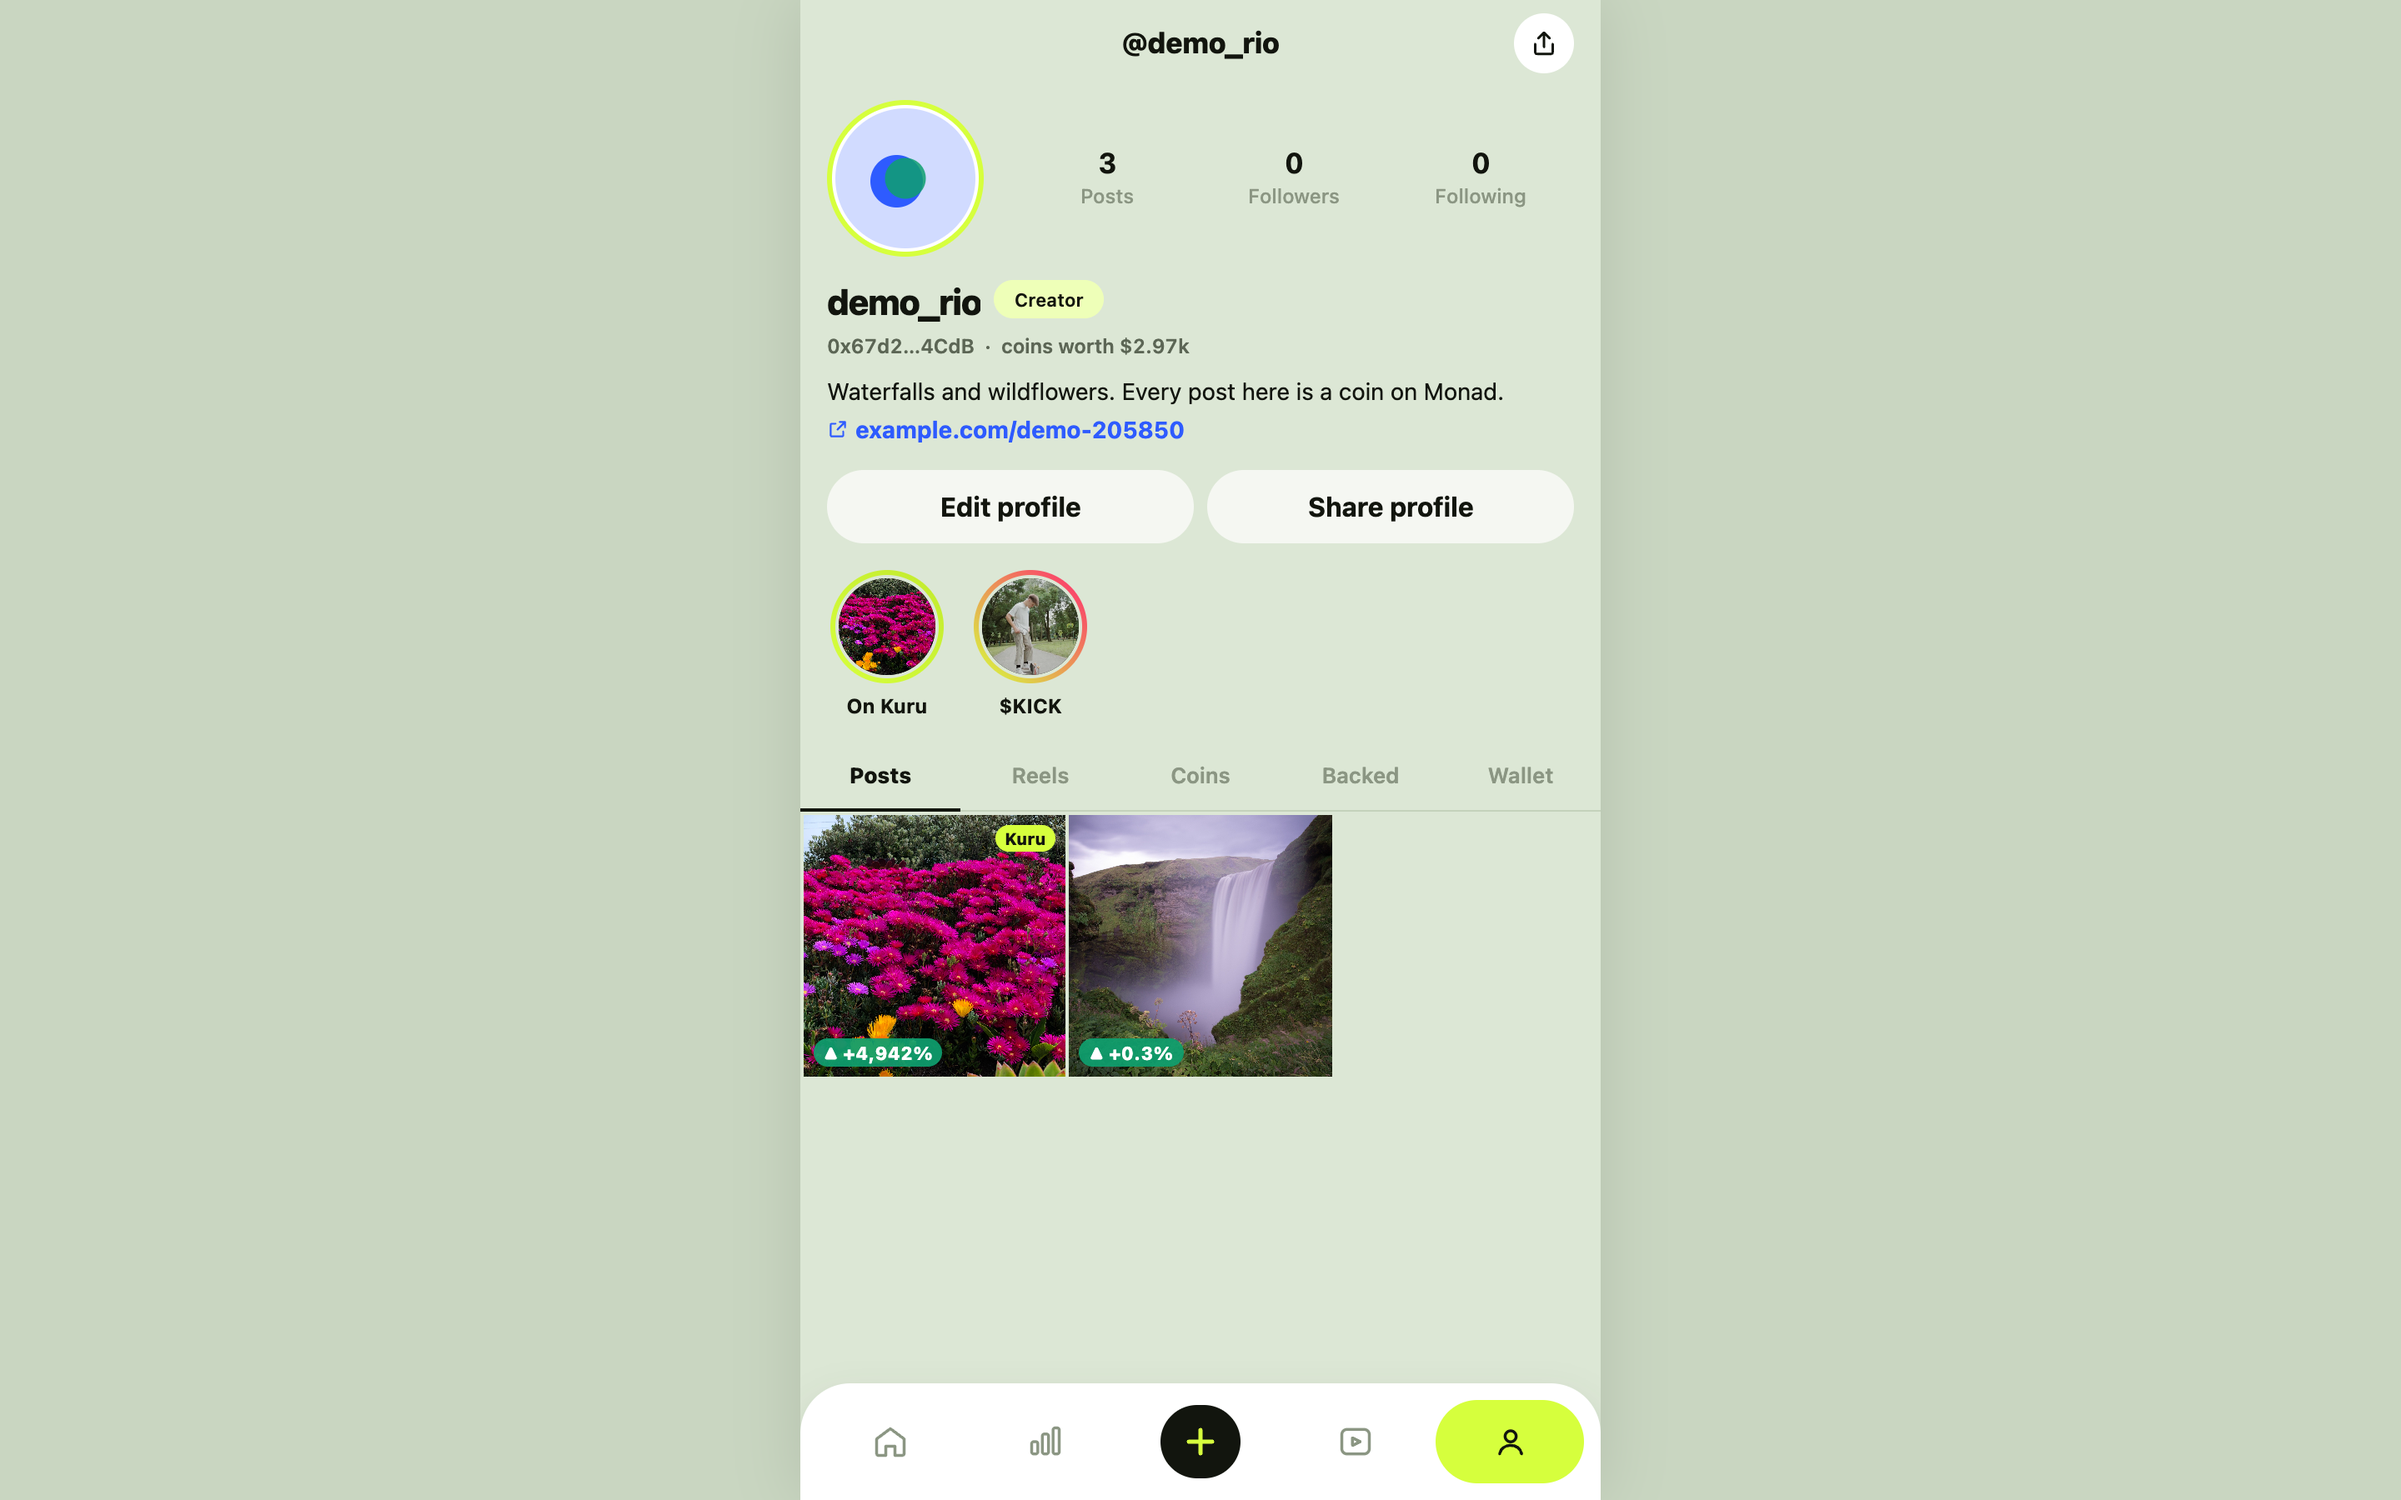
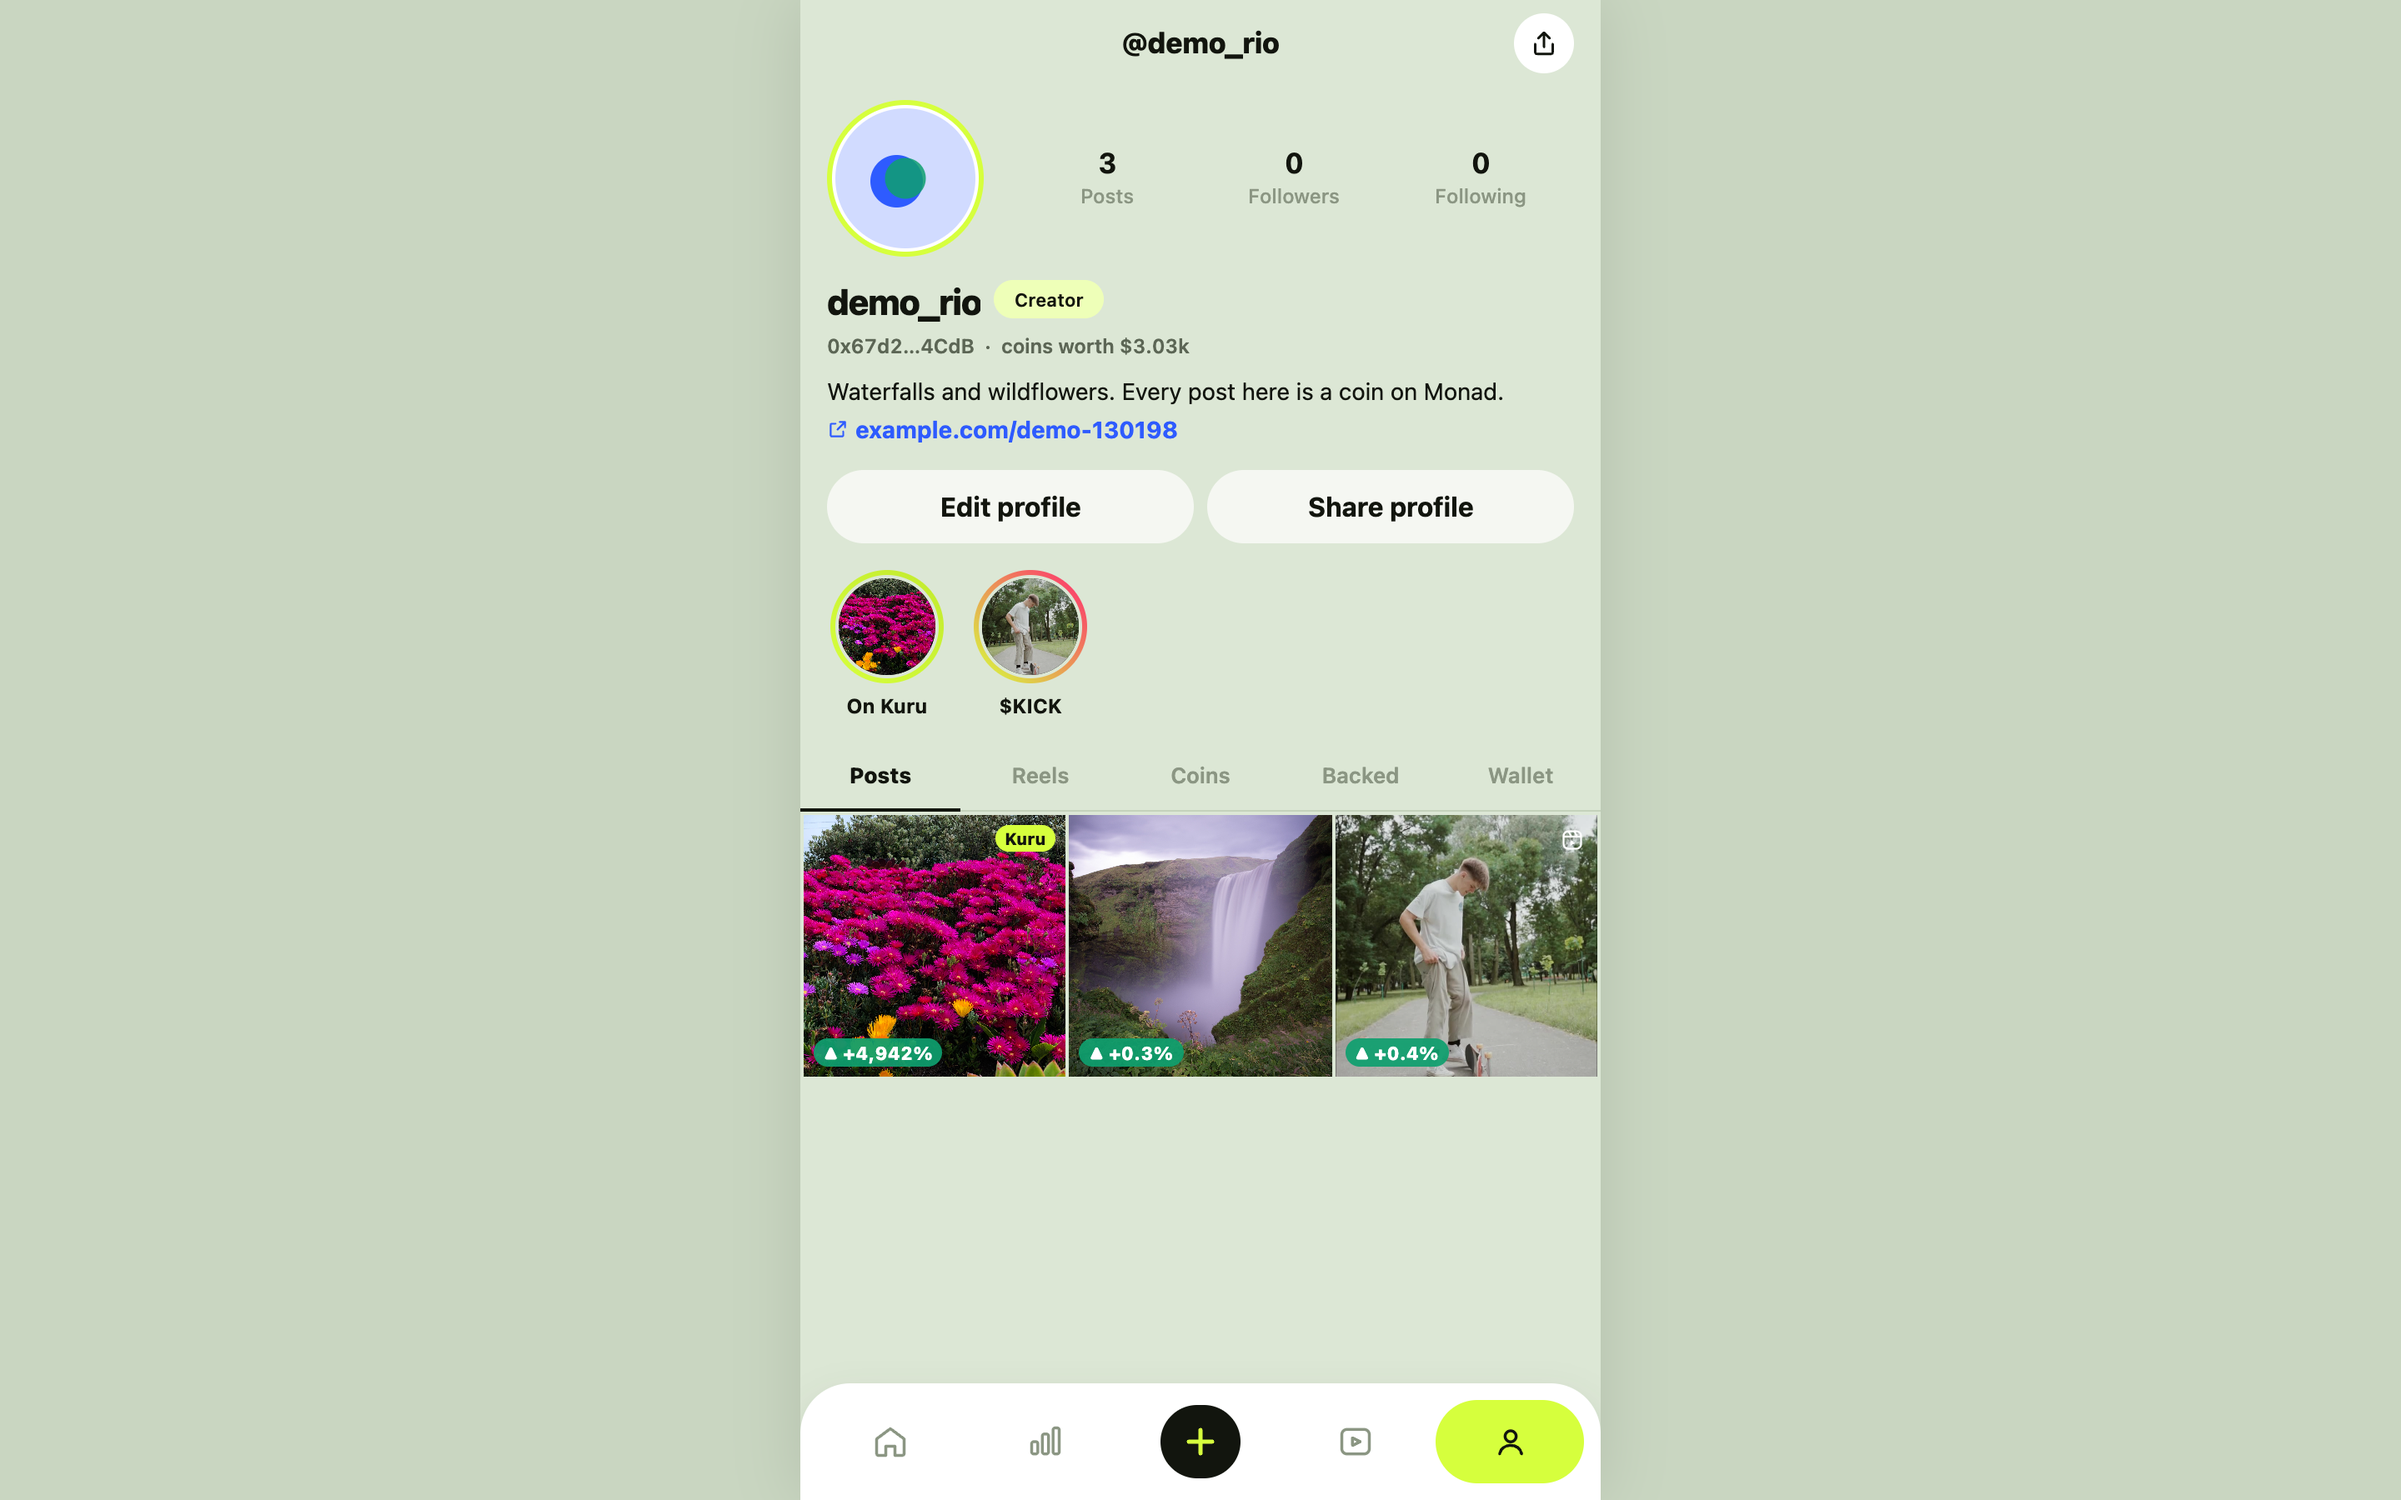
Profile: reels in the Posts grid, so the header count is the grid
The header counted photos and reels while the grid showed photos only
(3 Posts over 2 tiles). The grid is now every post, newest first, a reel
marked with its badge, as Instagram does; trackers stay under Coins.
profile.mjs asserts the header's Posts count equals the tiles, and that
exactly the reels carry the badge. After screenshots re-shot: profile
e2e 12/12, walk 50/50, on a fresh `npm run demo:local`.

Changed region(s): [[0.5312, 0.5289, 0.6875, 0.7156], [0.4375, 0.28, 0.5, 0.3111]]

diff --git a/juno-expo/components/CreatorProfile.tsx b/juno-expo/components/CreatorProfile.tsx
@@ -89,7 +89,13 @@ export function CreatorProfile({
   useRefreshOnFocus(() => profile.refresh());
 
   const created = data?.coins ?? [];
-  const posts = useMemo(() => created.filter((coin) => coin.format === "post" && !coin.reference), [created]);
+  // The main grid is every post, photos and reels together, newest first, as
+  // Instagram's is; a reel carries its badge. Trackers are coins, not posts,
+  // and are listed under Coins. The header's count is this grid's length.
+  const posts = useMemo(
+    () => created.filter((coin) => !coin.reference && (coin.format === "post" || coin.format === "reel")),
+    [created],
+  );
   const reels = useMemo(() => created.filter((coin) => coin.format === "reel"), [created]);
   const createdSet = useMemo(() => new Set(created.map((coin) => coin.address.toLowerCase())), [created]);
 
@@ -217,7 +223,7 @@ export function CreatorProfile({
                 <Identicon seed={wallet} size={84} />
               </AvatarRing>
               <Row style={{ flex: 1 }}>
-                <Stat value={String(posts.length + reels.length)} label="Posts" />
+                <Stat value={String(posts.length)} label="Posts" />
                 <Stat value={followers === null ? "—" : count(followers)} label={followers === 1 ? "Follower" : "Followers"} />
                 <Stat value={count(data.following)} label="Following" />
               </Row>
@@ -319,7 +325,7 @@ export function CreatorProfile({
           posts.length === 0 ? (
             <Empty
               title="No posts yet"
-              detail={own ? "A photo you post launches its own coin. People buy into it as they scroll." : "Nothing posted yet."}
+              detail={own ? "A photo or reel you post launches its own coin. People buy into it as they scroll." : "Nothing posted yet."}
               action={own ? <Button label="Post your first" onPress={() => router.push("/(tabs)/post" as never)} /> : undefined}
             />
           ) : (
@@ -428,7 +434,7 @@ function CoinTile({ coin, shape, onPress }: { coin: Coin; shape: "square" | "tal
         </View>
         {still ? <Image source={{ uri: still }} style={StyleSheet.absoluteFill} resizeMode="cover" /> : null}
         {coin.format === "reel" ? (
-          <View style={styles.tileBadge}>
+          <View style={styles.tileBadge} testID="reel-badge" accessibilityLabel="Reel">
             <ReelBadgeGlyph size={14} />
           </View>
         ) : coin.curve.graduated ? (

diff --git a/PLAN.md b/PLAN.md
@@ -68,7 +68,7 @@ innovation. Bounties are judged 40% on meeting the stated requirement. So:
 | 6.3 | `docs/DEPLOY-LATER.md` | Ordered runbook: addresses and MON, keys and where set, deploy and verify, hosting, smoke test, shot list | Read; under 1 hour | DONE (about 50 minutes) |
 | 7.1 | Fund deployers; deploy `JunoNavOracle`; redeploy API, indexer and web | Hosted app on HEAD | Post-deploy smoke test | **BLOCKED**: testnet go and MON |
 | 7.2 | Video, 3 minutes or less | Recorded from the shot list | — | **BLOCKED**: testnet go (hosted app on HEAD) |
-| 8.1 | Creator profile, Instagram style (user, 7 Oct) | Header with avatar, name, @handle, signed bio and link; posts, followers, following; Follow / Buy / Share; highlights; Posts, Reels, Coins, Backed tabs; 3-column square grid with price change; own (Edit profile, Wallet tab) and visitor views; loading, empty and error states; 390 px first | `tests/e2e/profile.mjs` (12 checks), `walk.mjs` 50/50, the app regression 59/60 (B7 as before), API 88/88, passkeys and drafts clean; before and after screenshots in `docs/screens/profile/` | DONE |
+| 8.1 | Creator profile, Instagram style (user, 7 Oct) | Header with avatar, name, @handle, signed bio and link; posts, followers, following; Follow / Buy / Share; highlights; Posts (photos and reels, a reel badged, the header count equal to the grid), Reels, Coins, Backed tabs; 3-column square grid with price change; own (Edit profile, Wallet tab) and visitor views; loading, empty and error states; 390 px first | `tests/e2e/profile.mjs` (12 checks), `walk.mjs` 50/50, the app regression 59/60 (B7 as before), API 88/88, passkeys and drafts clean; before and after screenshots in `docs/screens/profile/` | DONE |
 
 ## Gap audit (from the code, 6 Oct)
 

diff --git a/docs/TEST-PLAN-ZERO-MOCK.md b/docs/TEST-PLAN-ZERO-MOCK.md
@@ -88,7 +88,7 @@ are from this run. Items S, P, X and T are new.
 |---|---|---|
 | R1 | Visitor view at 1440 and 390 px: @handle, Posts, Followers, Following, Follow; no Edit profile | PASS |
 | R2 | Own view at 1440 and 390 px: Edit profile, Share profile, Posts, Reels, Coins, Backed and Wallet tabs; no Follow | PASS |
-| R3 | The Posts grid has one square tile per photo post the API lists, three to a row, each with its coin's price change | PASS |
+| R3 | The Posts grid has one square tile per post the API lists, photos and reels together (each reel with its badge), three to a row, each with its coin's price change; the header's Posts count equals the number of tiles | PASS |
 | R4 | Reels shows one tile per reel; Coins lists every coin launched; Backed shows the leaderboard record and other creators' coins held | PASS |
 | R5 | A tile opens its coin (click and touch tap) | PASS |
 | R6 | Edit profile saves a bio and link signed by the wallet; the server stores exactly them; a visitor sees both; a `javascript:` link cannot be saved | PASS |
